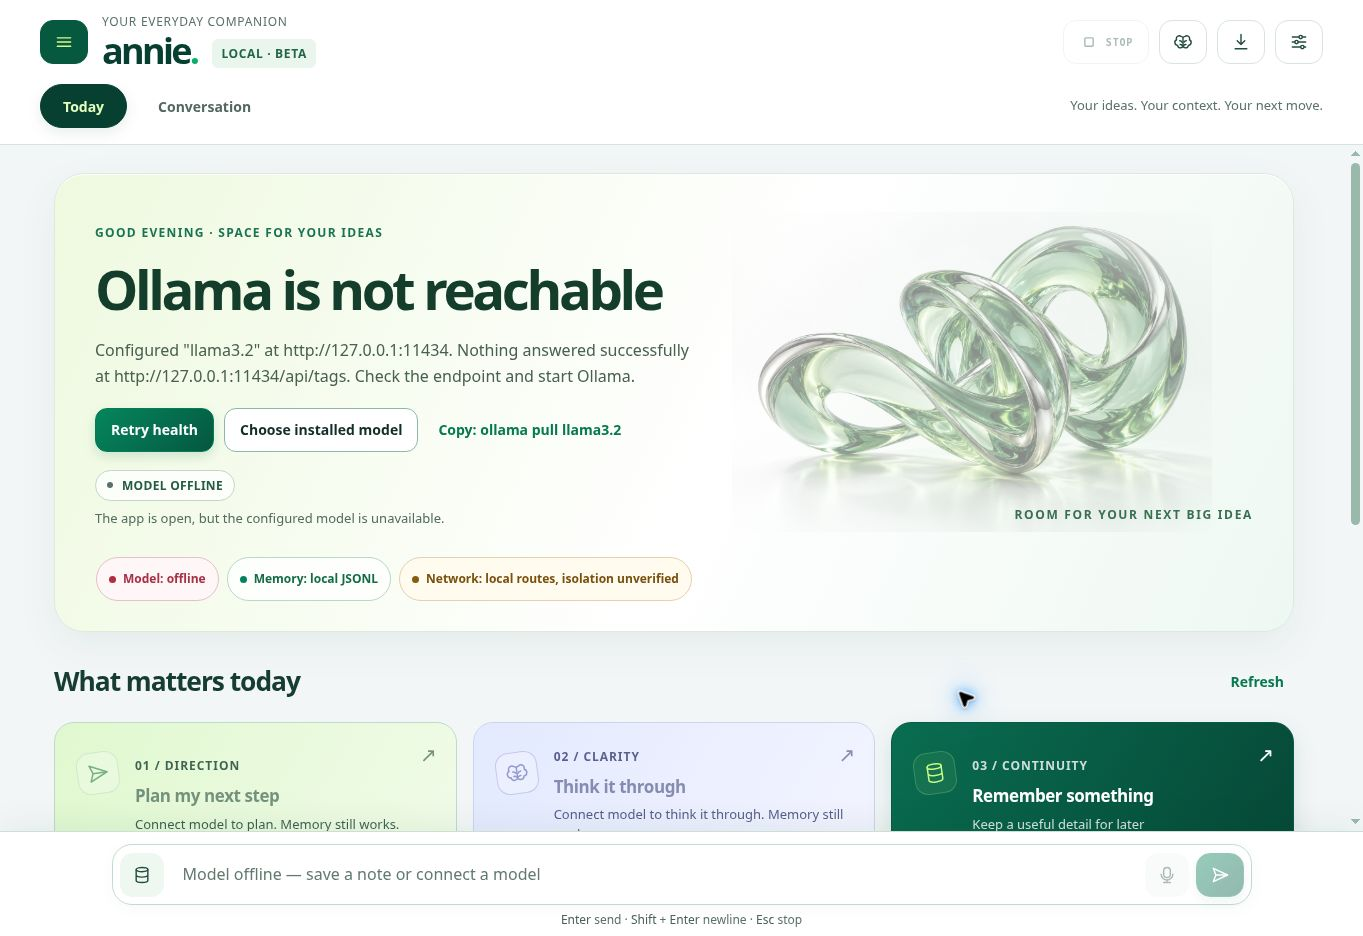
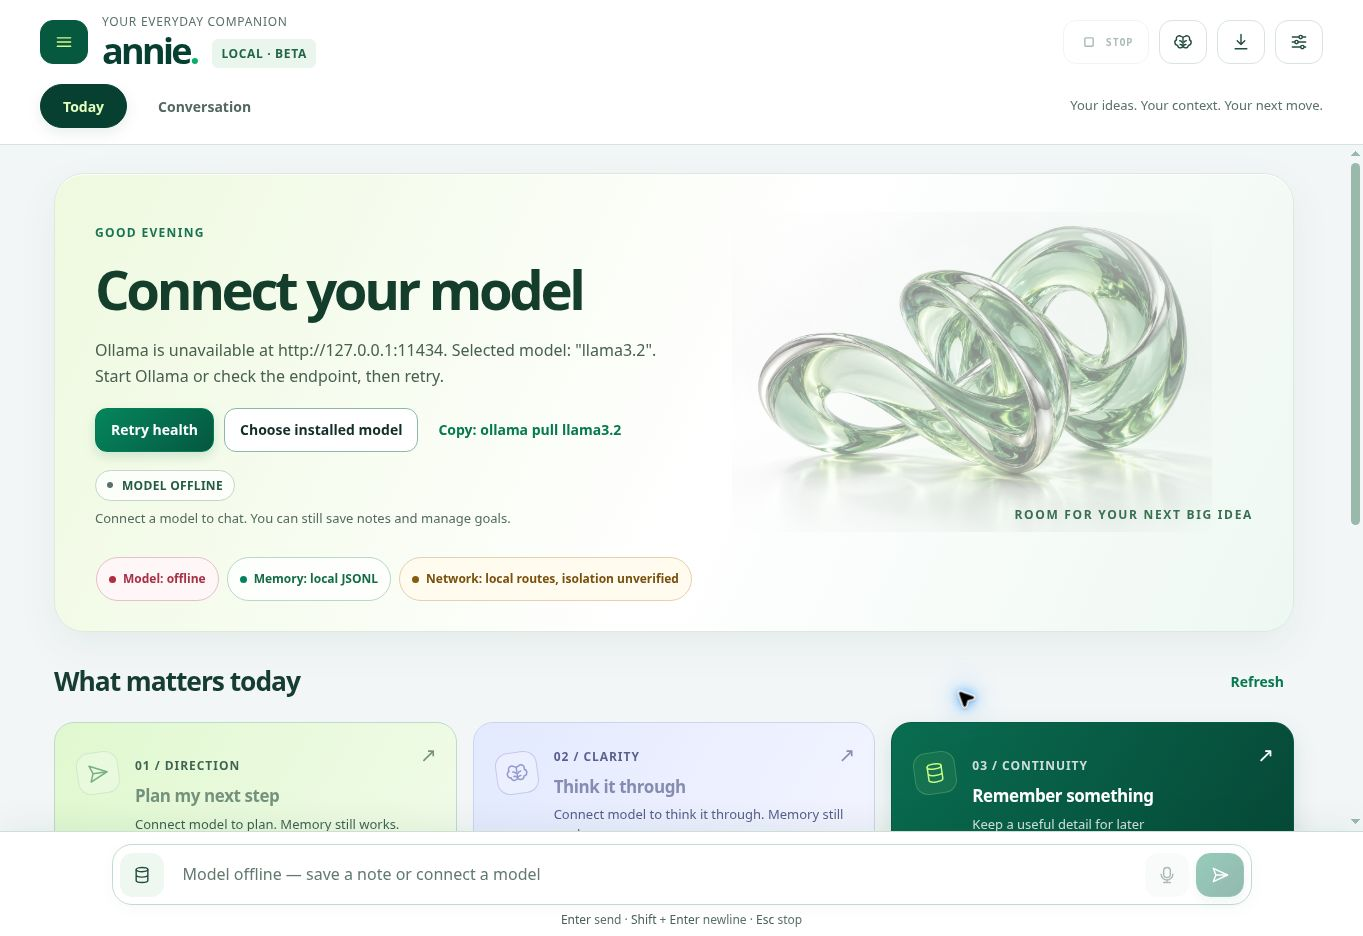
Polish Annie product copy and actionable model setup wording

Changed region(s): [[0.0924, 0.2479, 0.493, 0.3408], [0.0616, 0.3718, 0.493, 0.4338], [0.0924, 0.5267, 0.3698, 0.5577]]

diff --git a/src/annie/ui/index.html b/src/annie/ui/index.html
@@ -28,7 +28,7 @@
     </svg>
 
     <div class="app-shell">
-      <header class="topbar" aria-label="Research session controls">
+      <header class="topbar" aria-label="Annie session controls">
         <button class="icon-button" id="menuBtn" type="button" aria-label="Open session menu">
           <svg aria-hidden="true"><use href="#i-menu"></use></svg>
         </button>
@@ -58,10 +58,10 @@
       <main id="main" data-view="today" tabindex="-1">
         <section class="presence" aria-label="Annie session state">
           <div class="presence-intro">
-            <p class="eyebrow" id="dayGreeting">A fresh little start</p>
-            <h2 id="heroBrand">A little spark.<br><em>A bigger possibility.</em></h2>
+            <p class="eyebrow" id="dayGreeting">Welcome to Annie</p>
+            <h2 id="heroBrand">Your ideas.<br><em>Your next move.</em></h2>
             <h2 id="repairTitle" hidden></h2>
-            <p id="heroDescription" class="hero-description">A thinking partner for everything you’re becoming.<br>Bring your ideas. Build what comes next.</p>
+            <p id="heroDescription" class="hero-description">Think through ideas, plan your next step,<br>and keep useful context.</p>
             <p id="repairDetail" class="hero-description" hidden></p>
             <div id="repairActions" class="repair-actions" hidden>
               <button id="retryHealthBtn" class="primary-button" type="button">Retry health</button>
@@ -89,7 +89,7 @@
         </section>
 
         <section class="today-workspace" id="todayWorkspace" aria-label="Today workspace">
-          <div class="section-heading"><div><span class="eyebrow">Make a little progress</span><h2>What matters today</h2></div><button class="text-button" id="refreshToday" type="button">Refresh</button></div>
+          <div class="section-heading"><div><span class="eyebrow">Your workspace</span><h2>What matters today</h2></div><button class="text-button" id="refreshToday" type="button">Refresh</button></div>
           <div class="quick-actions">
             <button class="quick-action" id="planDayBtn" type="button" aria-describedby="directionReason"><span class="action-symbol" aria-hidden="true"><svg><use href="#i-send"></use></svg></span><span class="action-index" aria-hidden="true">01 / DIRECTION</span><b>Plan my next step</b><small id="directionReason">Make your open goals manageable</small><span class="action-arrow" aria-hidden="true">↗</span></button>
             <button class="quick-action" id="unstickBtn" type="button" aria-describedby="clarityReason"><span class="action-symbol" aria-hidden="true"><svg><use href="#i-brain"></use></svg></span><span class="action-index" aria-hidden="true">02 / CLARITY</span><b>Think it through</b><small id="clarityReason">Give an unfinished idea some shape</small><span class="action-arrow" aria-hidden="true">↗</span></button>
@@ -100,29 +100,29 @@
           <div class="workspace-grid">
             <section class="workspace-card goals-card" aria-labelledby="goalsTitle">
               <div class="card-heading"><h3 id="goalsTitle">Your next moves<span class="heading-dot" aria-hidden="true">.</span></h3><span class="count-pill" id="goalCount">—</span></div>
-              <p class="card-description">Small steps count. Pick one and give it a little attention.</p>
+              <p class="card-description">Keep your goals in view and choose what to work on next.</p>
               <div id="goalList" class="goal-list"></div>
               <form id="goalForm" class="goal-form"><label class="sr-only" for="goalInput">New goal</label><input id="goalInput" type="text" maxlength="4000" required placeholder="What would you like to move forward?" /><button class="primary-button" id="addGoalBtn" type="submit">Add goal</button></form>
               <details class="completed-goals" id="completedGoals" hidden><summary id="completedSummary">Completed goals</summary><div id="completedList" class="goal-list"></div></details>
             </section>
             <section class="workspace-card memory-card" aria-labelledby="contextTitle">
-              <div class="card-heading"><h3 id="contextTitle">A little context, a better Annie</h3><svg aria-hidden="true"><use href="#i-memory"></use></svg></div>
+              <div class="card-heading"><h3 id="contextTitle">Your saved context</h3><svg aria-hidden="true"><use href="#i-memory"></use></svg></div>
               <p class="card-description">Tell Annie what matters to you. Review everything she keeps.</p>
-              <p id="profilePreview" class="profile-preview">Your profile will appear here.</p>
+              <p id="profilePreview" class="profile-preview">Add preferences or background you want Annie to remember.</p>
               <div id="memoryStats" class="memory-stats"></div>
               <div class="card-links"><button class="text-button" id="profileBtn" type="button">Add a profile note</button><button class="text-button" id="inspectTodayBtn" type="button">Inspect memory ↗</button></div>
             </section>
           </div>
-          <p class="workspace-footnote">Saved in this Annie deployment · Memory and goals work even when the model is unavailable.</p>
+          <p class="workspace-footnote">Memory and goals remain available when the model is disconnected.</p>
         </section>
 
-        <section class="session-stream" id="sessionStream" aria-label="Research session transcript" hidden>
+        <section class="session-stream" id="sessionStream" aria-label="Annie conversation" hidden>
           <article class="welcome-card" id="welcomeCard">
             <div class="avatar" aria-hidden="true">A</div>
             <div>
-              <p class="message-kicker">Research Session</p>
-              <h2>Let’s make something of that idea.</h2>
-              <p>Messages stay with the configured Annie deployment. Check the badges above before treating a session as offline.</p>
+              <p class="message-kicker">Conversation</p>
+              <h2>What would you like to work on?</h2>
+              <p>Conversation history is saved in this Annie installation. Check the status details for model and voice routes.</p>
             </div>
           </article>
         </section>
@@ -149,7 +149,7 @@
 
     <dialog class="sheet" id="captureDialog" aria-labelledby="captureTitle">
       <form id="captureForm">
-        <div class="sheet-head"><div><span class="eyebrow">Keep the useful bits</span><h2 id="captureTitle">Remember something</h2></div><button class="icon-button" data-close="captureDialog" type="button" aria-label="Close memory capture"><svg aria-hidden="true"><use href="#i-close"></use></svg></button></div>
+        <div class="sheet-head"><div><span class="eyebrow">Memory</span><h2 id="captureTitle">Remember something</h2></div><button class="icon-button" data-close="captureDialog" type="button" aria-label="Close memory capture"><svg aria-hidden="true"><use href="#i-close"></use></svg></button></div>
         <div class="sheet-body">
           <div class="field"><label for="captureKind">Save as</label><select id="captureKind"><option value="fact">Remembered fact</option><option value="profile">Profile note</option><option value="goal">Goal</option><option value="journal">Journal entry</option></select></div>
           <div class="field"><label for="captureText">What should Annie know?</label><textarea id="captureText" class="settings-textarea" required maxlength="4000" placeholder="A preference, an idea, or something you want to come back to…"></textarea><small>Saved directly, without asking the model. Profile notes are added to your existing profile. Inspect or delete them in Memory.</small></div>
@@ -161,11 +161,11 @@
 
     <dialog class="sheet" id="menuDialog" aria-labelledby="menuTitle">
       <div class="sheet-head">
-        <div><span class="eyebrow">Session</span><h2 id="menuTitle">Research controls</h2></div>
+        <div><span class="eyebrow">Session</span><h2 id="menuTitle">Session controls</h2></div>
         <button class="icon-button" data-close="menuDialog" type="button" aria-label="Close session menu"><svg aria-hidden="true"><use href="#i-close"></use></svg></button>
       </div>
       <div class="sheet-body">
-        <button class="sheet-action" id="openMemoryBtn" type="button"><svg aria-hidden="true"><use href="#i-memory"></use></svg><span><b>Memory inspector</b><small>Review, export, or delete stored knowledge</small></span></button>
+        <button class="sheet-action" id="openMemoryBtn" type="button"><svg aria-hidden="true"><use href="#i-memory"></use></svg><span><b>Memory inspector</b><small>Review or delete saved knowledge</small></span></button>
         <button class="sheet-action" id="clearBtn" type="button"><svg aria-hidden="true"><use href="#i-trash"></use></svg><span><b>Restart session</b><small>Clear conversation history; keep structured knowledge</small></span></button>
         <section class="account-panel" id="authAccount" hidden aria-label="Signed-in account">
           <span>Signed in for this browser session</span>
@@ -188,7 +188,7 @@
     <dialog class="sheet" id="settingsDialog" aria-labelledby="settingsTitle">
       <form id="settingsForm">
         <div class="sheet-head">
-          <div><span class="eyebrow">Runtime</span><h2 id="settingsTitle">Settings</h2></div>
+          <div><span class="eyebrow">Configuration</span><h2 id="settingsTitle">Settings</h2></div>
           <button class="icon-button" data-close="settingsDialog" type="button" aria-label="Close settings"><svg aria-hidden="true"><use href="#i-close"></use></svg></button>
         </div>
         <div class="sheet-body">
@@ -222,11 +222,11 @@
             <input type="range" id="temp" min="0" max="1.5" step="0.05" />
           </div>
           <div class="field">
-            <label for="sys">Care doctrine</label>
+            <label for="sys">Assistant instructions</label>
             <textarea class="settings-textarea" id="sys" spellcheck="false"></textarea>
           </div>
           <div class="button-row">
-            <button class="secondary-button" id="resetSys" type="button">Restore doctrine</button>
+            <button class="secondary-button" id="resetSys" type="button">Restore default instructions</button>
             <button class="primary-button" id="saveCfg" type="submit">Save and apply</button>
           </div>
         </div>

diff --git a/src/annie/ui/app.js b/src/annie/ui/app.js
@@ -59,7 +59,7 @@ const PHASE_VIEW = {
   listening: { label: "Listening", copy: "Browser voice input is active; locality is not verified." },
   thinking: { label: "Thinking", copy: "The configured model is working on your request." },
   speaking: { label: "Speaking", copy: "Voice output is playing. Use Stop at any time." },
-  offline: { label: "Model offline", copy: "The app is open, but the configured model is unavailable." },
+  offline: { label: "Model offline", copy: "Connect a model to chat. You can still save notes and manage goals." },
   error: { label: "Error", copy: "The last operation failed. Details are in the session." },
 };
 
@@ -372,12 +372,12 @@ function exportSession() {
   const safeDate = new Date().toISOString().replace(/[:.]/g, "-");
   downloadJson(`annie-research-session-${safeDate}.json`, {
     format: "annie-research-session/v1",
-    title: "Research Session",
+    title: "Annie conversation",
     exported_at: new Date().toISOString(),
     runtime_status: AnnieState.get("session").runtime,
     messages,
   });
-  announce("Research session exported");
+  announce("Conversation exported");
 }
 
 async function loadSettings() {
@@ -796,7 +796,7 @@ el.clearBtn.addEventListener("click", async () => {
   await AnnieApi.restartSession();
   messages = [];
   el.stream.innerHTML = "";
-  addSystemMessage("New research session started. Structured knowledge was kept.");
+  addSystemMessage("New conversation started. Saved knowledge was kept.");
   closeDialog(el.menuDialog);
 });
 $$('[data-close]').forEach((button) => button.addEventListener("click", () => closeDialog(document.getElementById(button.dataset.close))));

diff --git a/src/annie/ui/companion.js b/src/annie/ui/companion.js
@@ -220,7 +220,7 @@
         await AnnieApi.addKnowledge("goal", input.value.trim());
         input.value = "";
         const refreshed = await refresh().then(() => true, () => false);
-        if (refreshed) notice("Goal saved. Let’s give it a next step.");
+        if (refreshed) notice("Goal saved.");
       } catch (error) {
         notice(error.message || "Could not save the goal. Your draft was kept.", true);
       } finally {
@@ -251,7 +251,7 @@
       }
     });
     const hour = new Date().getHours();
-    find("dayGreeting").textContent = hour < 12 ? "Good morning · let’s begin" : hour < 18 ? "Good afternoon · room for a little progress" : "Good evening · space for your ideas";
+    find("dayGreeting").textContent = hour < 12 ? "Good morning" : hour < 18 ? "Good afternoon" : "Good evening";
     return { refresh, showView, setLocked, setRuntime };
   }
   global.AnnieCompanion = { init };

diff --git a/src/annie/core/runtime_status.py b/src/annie/core/runtime_status.py
@@ -92,8 +92,10 @@ def model_repair(name: str, url: str, backend: dict[str, Any]) -> dict[str, Any]
     match = match_model(name, backend.get("model_names") or [])
     reachable = backend.get("endpoint_available", backend.get("ok", False))
     if not reachable:
-        code, title = "endpoint_down", "Ollama is not reachable"
-        detail = f'Configured "{name}" at {url}. Nothing answered successfully at {url}/api/tags. Check the endpoint and start Ollama.'
+        code, title = "endpoint_down", "Connect your model"
+        detail = (
+            f'Ollama is unavailable at {url}. Selected model: "{name}". Start Ollama or check the endpoint, then retry.'
+        )
     elif match["installed"]:
         code, title = "ready", "Your model is ready"
         detail = f"{match['resolved_name']} is available at {url}."

diff --git a/tests/test_api.py b/tests/test_api.py
@@ -19,7 +19,7 @@ def test_index_loads(tmp_path) -> None:
     with TestClient(create_app(config)) as client:
         response = client.get("/")
     assert response.status_code == 200
-    assert "Research Session" in response.text
+    assert "Annie session controls" in response.text
 
 
 def test_health_endpoint(tmp_path) -> None:

diff --git a/CHANGELOG.md b/CHANGELOG.md
@@ -2,6 +2,8 @@
 
 ## 0.4.0 candidate — unreleased
 
+- Simplified product copy, replaced leftover Research Session labels, and made the connection heading actionable while retaining truthful diagnostics.
+
 - Added the server-driven operator repair hero, offline composer gating, conservative local-route badge wording, 44px controls, reduced-motion overrides, and visual-viewport sizing. Real-Ollama and phone evidence remain outstanding; no release tag was created.
 
 ### Guarded streaming and plan contracts
